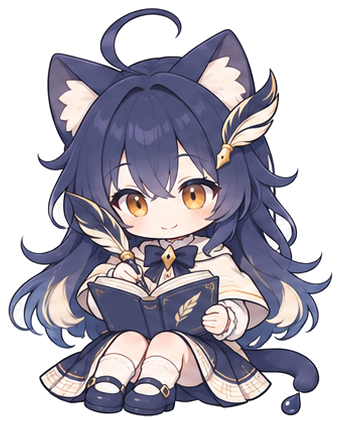
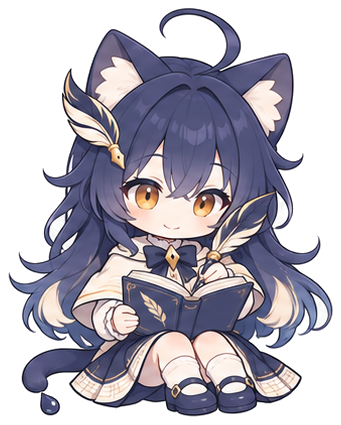
Textus-chan's poses face right, with a left-facing set of poses and stickers

diff --git a/README.md b/README.md
@@ -51,7 +51,7 @@ Her true self: a 175 cm literature student who works in an old bookshop and long
 | Folder | What |
 |---|---|
 | [`art/`](art) | The sheets: `front`, `turnaround` (front, side, back), `expressions`, `outfit`, `props`, `sprites` (desk-pet poses), `seasons`, `stickers`, `promo` (wide illustration with room for text). `art/transparent/` has each without its white background. |
-| [`cutouts/`](cutouts) | Single PNGs: 8 expressions, 8 poses, 8 stickers - transparent, and on white in `cutouts/white/`. |
+| [`cutouts/`](cutouts) | Single PNGs: 8 expressions, 8 poses, 8 stickers - transparent, and on white in `cutouts/white/`. The poses face right; `cutouts/left/` (and `cutouts/white/left/`) has the poses and stickers facing left. |
 | [`banners/`](banners) | Ready-made covers: X header 1500×500, WeChat cover 900×383, RedNote cover 1242×1660, GitHub social preview 1280×640, Discord banner 960×540. |
 
 ![Turnaround](art/turnaround.png)

diff --git a/README.zh-CN.md b/README.zh-CN.md
@@ -51,7 +51,7 @@
 | 文件夹 | 内容 |
 |---|---|
 | [`art/`](art) | 设定图：`front` 立绘、`turnaround` 三视图、`expressions` 表情、`outfit` 服装拆解、`props` 道具、`sprites` 桌宠动作、`seasons` 四季服装、`stickers` 贴纸、`promo` 横版宣传插画（左侧留白放文字）。`art/transparent/` 是去掉白底的版本。 |
-| [`cutouts/`](cutouts) | 单张 PNG：8 个表情、8 个动作、8 张贴纸；透明背景一套，白底一套在 `cutouts/white/`。 |
+| [`cutouts/`](cutouts) | 单张 PNG：8 个表情、8 个动作、8 张贴纸；透明背景一套，白底一套在 `cutouts/white/`。动作都朝右；朝左的动作和贴纸在 `cutouts/left/`（白底在 `cutouts/white/left/`）。 |
 | [`banners/`](banners) | 做好的封面：X 横幅 1500×500、公众号封面 900×383、小红书封面 1242×1660、GitHub 预览图 1280×640、Discord 横幅 960×540。 |
 
 ![三视图](art/turnaround.png)
